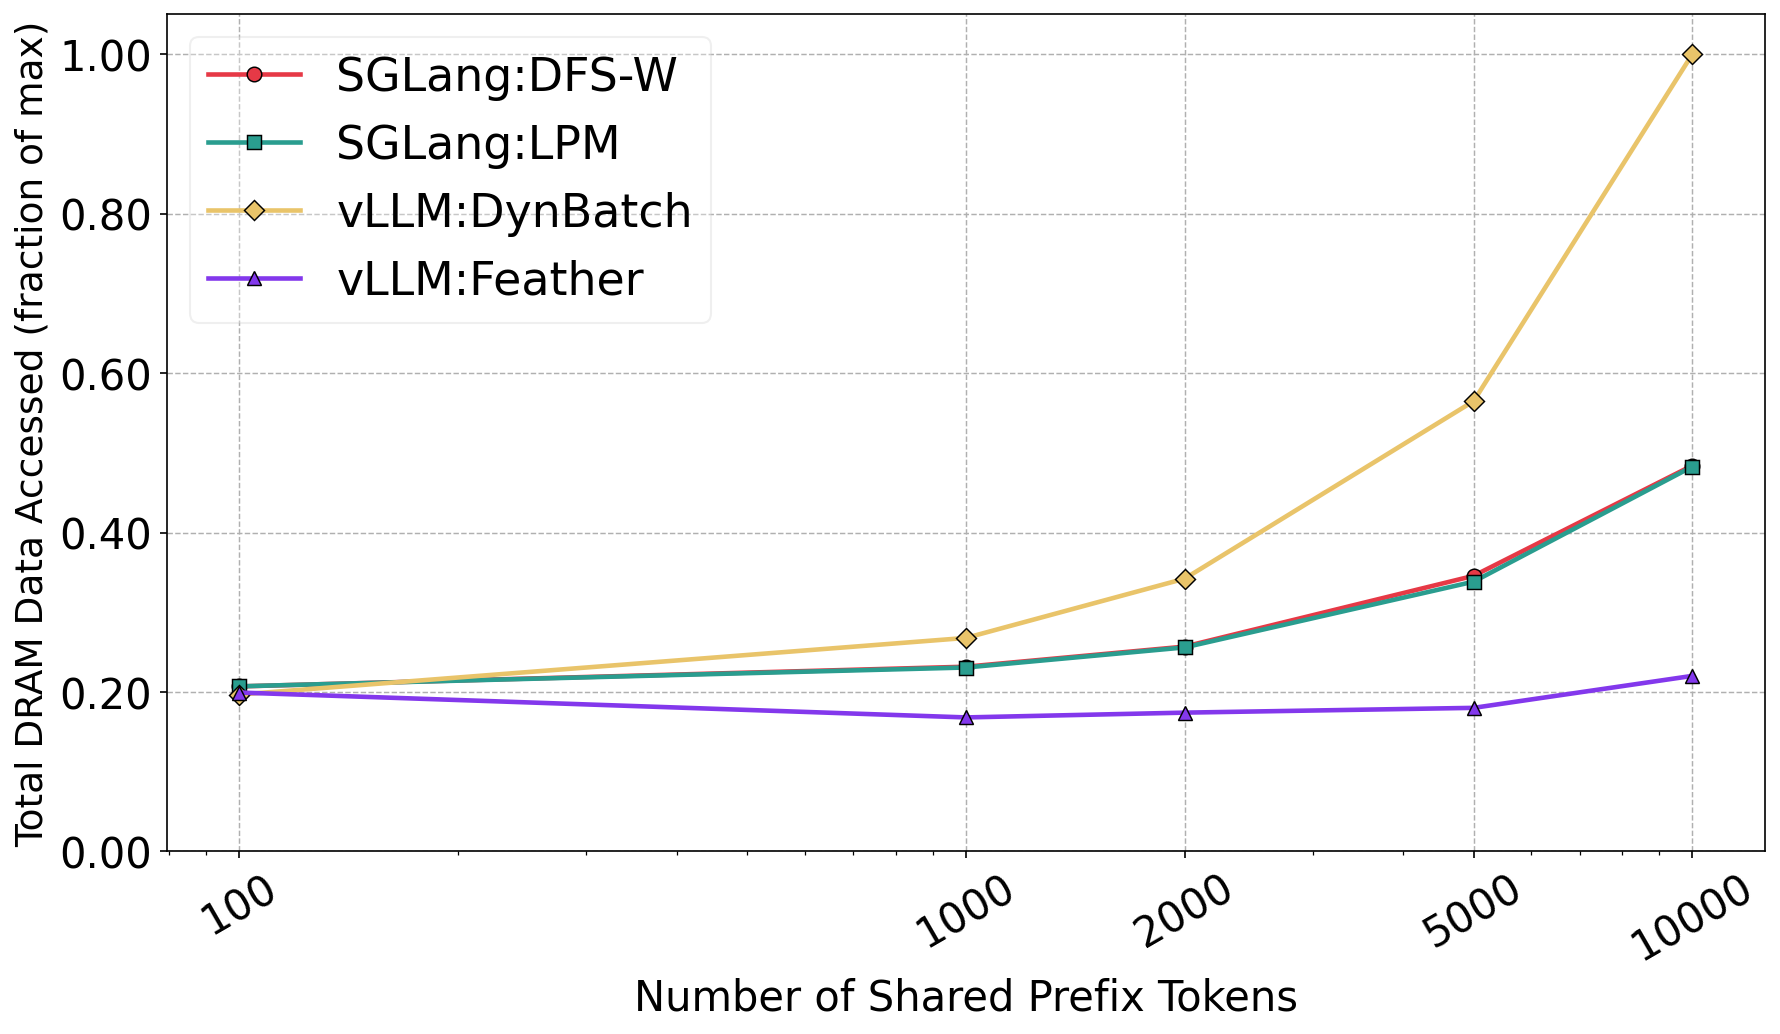
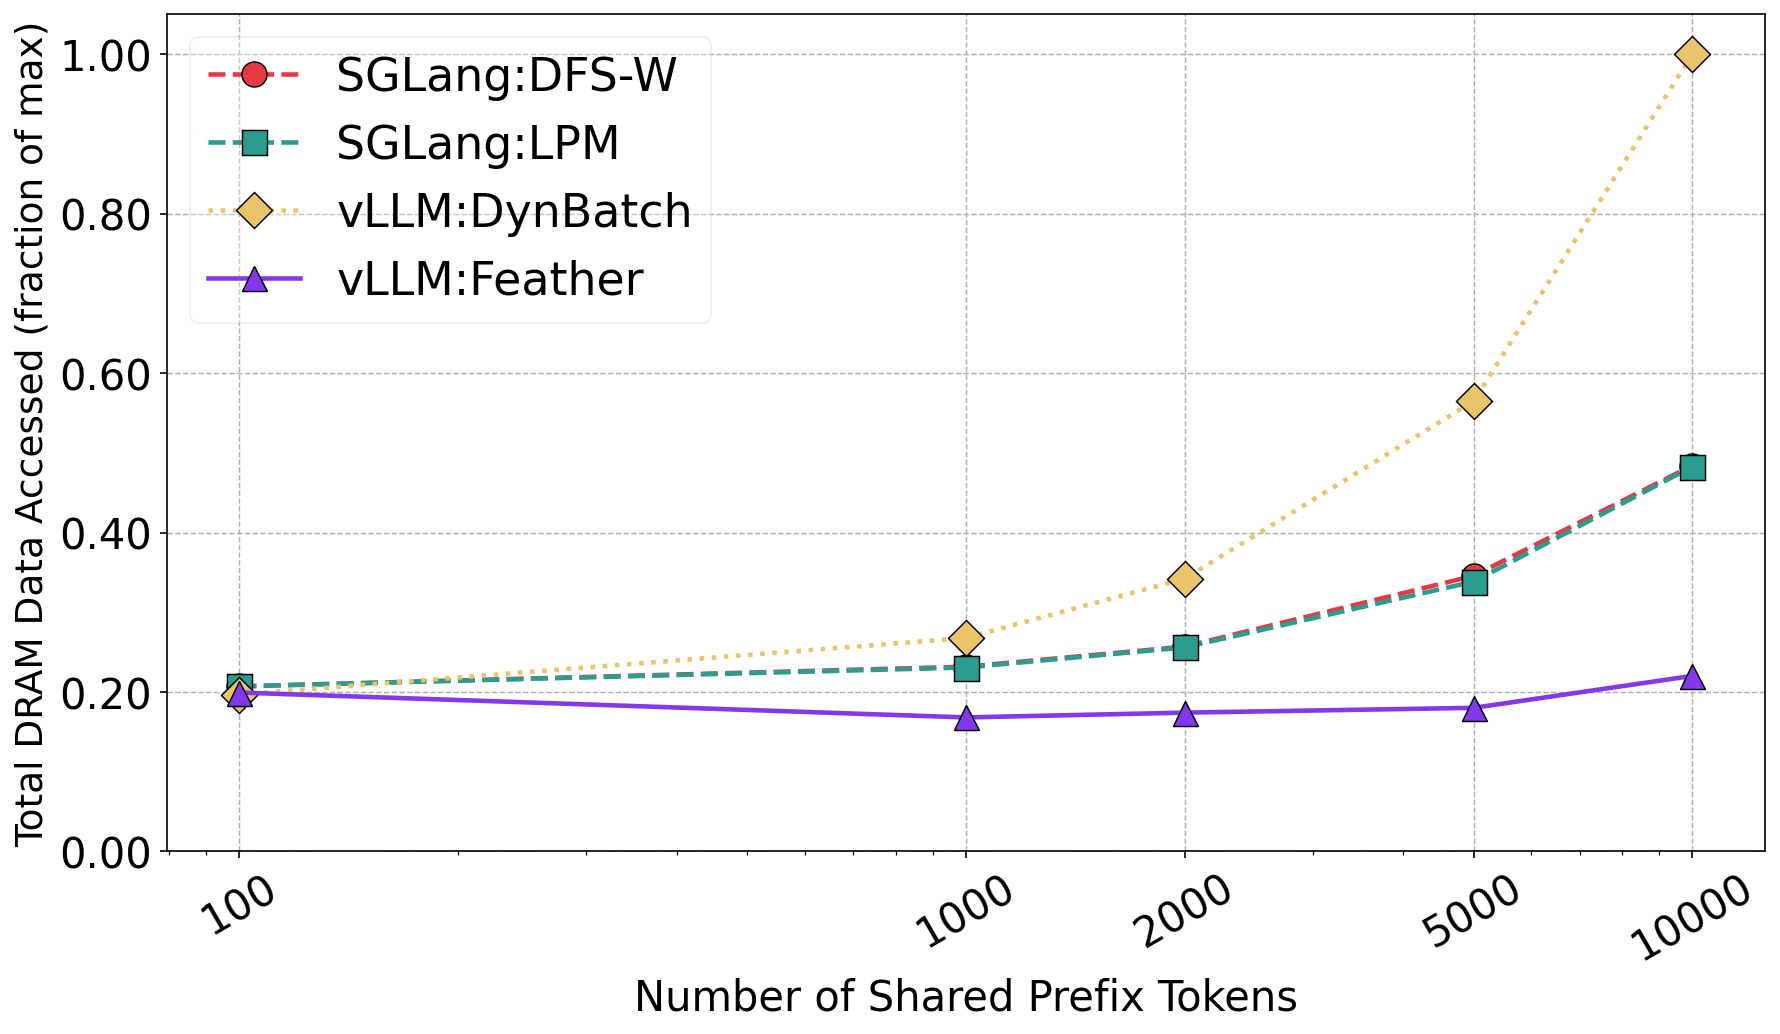
marker size increased

diff --git a/code/vllm/sys_prompt_tokens_logs_drama/plot.py b/code/vllm/sys_prompt_tokens_logs_drama/plot.py
@@ -33,7 +33,7 @@ PALETTE = [
     "#3A86FF", "#FF006E",
 ]
 MARKERS    = ["o", "s", "D", "^", "v", "P", "X", "*", "<", ">"]
-LINESTYLES = ["-", "--", "-.", ":"]
+LINESTYLES = ["--", "--", ":", "-"]
 
 # ── Policy / engine mapping ───────────────────────────────────────────────────
 VLLM_POLICIES   = {"fcfs", "dynamic_batching", "chunked_hash_tree_bandit", "family_load"}
@@ -239,7 +239,7 @@ def plot_metric(data: dict, metric: str, out_dir: str, normalised: bool = False)
     for i, label in enumerate(sorted(data.keys())):
         color     = PALETTE[i % len(PALETTE)]
         marker    = MARKERS[i % len(MARKERS)]
-        linestyle = LINESTYLES[(i // len(MARKERS)) % len(LINESTYLES)]
+        linestyle = LINESTYLES[i % len(LINESTYLES)]
 
         xs, ys = [], []
         for tok in all_tokens:
@@ -254,7 +254,7 @@ def plot_metric(data: dict, metric: str, out_dir: str, normalised: bool = False)
             marker=marker,
             linestyle=linestyle,
             linewidth=2.2,
-            markersize=7,
+            markersize=12,
             markeredgecolor="black",
             markeredgewidth=0.7,
             color=color,

diff --git a/code/vllm/sys_prompt_tokens_logs_microbenchmark/plot.py b/code/vllm/sys_prompt_tokens_logs_microbenchmark/plot.py
@@ -144,7 +144,7 @@ labels = sorted(summed_profile.keys())
 for i, label in enumerate(labels):
     color     = PALETTE[i % len(PALETTE)]
     marker    = MARKERS[i % len(MARKERS)]
-    linestyle = LINESTYLES[(i // len(MARKERS)) % len(LINESTYLES)]
+    linestyle = LINESTYLES[i% len(LINESTYLES)]
 
     xs, ys = [], []
     for tok in all_sys_toks:
